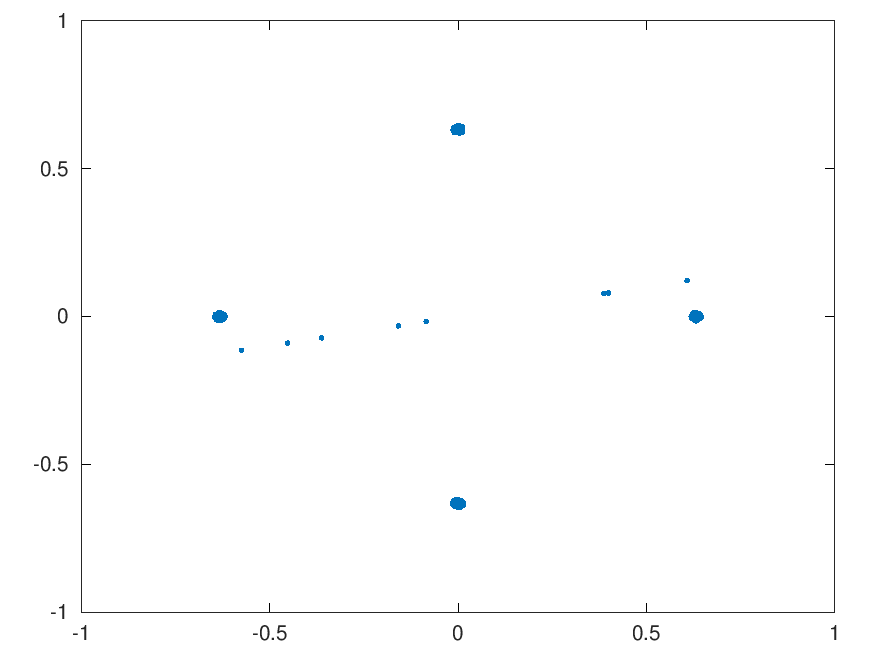
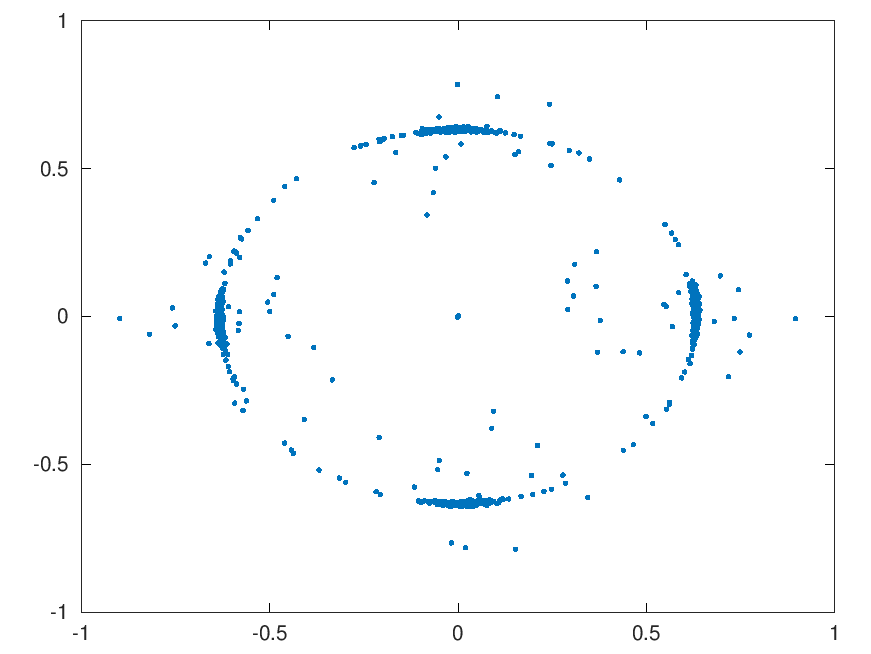
Initial commit

diff --git a/qpsk.c b/qpsk.c
@@ -30,8 +30,16 @@ static FILE *fout;
 
 static complex float tx_filter[NTAPS];
 static complex float rx_filter[NTAPS];
-static complex float input_frame[(FRAME_SIZE * 2)];
-static complex float decimated_frame[256];
+static complex float input_frame[FRAME_SIZE];
+static complex float decimated_frame[128];	// FRAME_SIZE / CYCLES
+
+/*
+ * Costas Loop values
+ */
+static complex float costas_frame[FRAME_SIZE];
+
+static float omega_hat[FRAME_SIZE];
+static float phi_hat[FRAME_SIZE];
 
 // Two phase for full duplex
 
@@ -113,10 +121,8 @@ void rx_frame(int16_t in[], int bits[]) {
 
     float av_i = 0.0f;;
     float av_q = 0.0f;
-    
-    float phi_error_hat;
 
-    int rxbits[2];
+    //int rxbits[2];
     
     /*
      * You need as many histograms as you think
@@ -131,11 +137,8 @@ void rx_frame(int16_t in[], int bits[]) {
      */
     for (int i = 0; i < FRAME_SIZE; i++) {
         fbb_rx_phase *= fbb_rx_rect;
-        
-        complex float val = fbb_rx_phase * ((float) in[i] / 16384.0f);
 
-        input_frame[i] = input_frame[FRAME_SIZE + i];	// Current frame
-        input_frame[FRAME_SIZE + i] = val;		// Future frame
+        input_frame[i] = fbb_rx_phase * ((float) in[i] / 16384.0f);
     }
 
     fbb_rx_phase /= cabsf(fbb_rx_phase); // normalize as magnitude can drift
@@ -206,32 +209,38 @@ void rx_frame(int16_t in[], int bits[]) {
     }
 
     /*
-     * Decimate by 4 to the 2400 symbol rate
+     * Costas Loop over the whole input frame
      */
-    for (int i = 0; i < (FRAME_SIZE / CYCLES); i++) {
-        int extended = (FRAME_SIZE / CYCLES) + i; // compute once
-        
-        decimated_frame[i] = decimated_frame[extended];
-        decimated_frame[extended] = input_frame[(i * CYCLES) + index];
+    for (int i = 0; i < (FRAME_SIZE - 1); i++) {
+        costas_frame[i] = input_frame[i] * cmplxconj(phi_hat[i]);  // carrier sync
 
         /*
          * Compute 4th-Order phase error (remove modulation)
          */
+        float phi_error_hat = cargf(cpowf(costas_frame[i], 4.0f));
+        
+        omega_hat[i+1] = omega_hat[i] + (BETA * phi_error_hat); // loop filter
+        phi_hat[i+1] = phi_hat[i] + (ALPHA * phi_error_hat) + omega_hat[i+1];
+    }
 
-        //phi_error_hat = cargf(cpowf(decimated_frame[extended], 4.0f));
+    /*
+     * Decimate by 4 to the 2400 symbol rate
+     * adjust for the timing error
+     */
+    for (int i = 0; i < (FRAME_SIZE / CYCLES); i++) {
+        decimated_frame[i] = costas_frame[(i * CYCLES) + index];
 
 #ifdef TEST_SCATTER
         fprintf(stderr, "%f %f\n", crealf(decimated_frame[i]), cimagf(decimated_frame[i]));
 #endif
-    }
+
 /*
-    for (int i = 0; i < (FRAME_SIZE / CYCLES); i++) {
         //printf("%d ", find_quadrant(decimated_frame[i]));
 
         qpsk_demod(decimated_frame[i], rxbits);
         printf("%d%d ", rxbits[0], rxbits[1]);
-    }
 */
+    }
 }
 
 /*
@@ -325,7 +334,16 @@ int main(int argc, char** argv) {
     int length;
 
     srand(time(0));
-    
+
+    /*
+     * Initialize Costas loop
+     */
+     for (int i = 0; i < FRAME_SIZE; i++) {
+        costas_frame[i] = 0.0f;    // complex
+        omega_hat[i] = 0.0f;       // float
+        phi_hat[i] = 0.0f;         // float
+    }
+
     /*
      * Create an RRC filter using the
      * Sample Rate, baud, and Alpha
@@ -339,7 +357,7 @@ int main(int argc, char** argv) {
     fout = fopen(TX_FILENAME, "wb");
 
     fbb_tx_phase = cmplx(0.0f);
-    fbb_tx_rect = cmplx(TAU * CENTER / FS);
+    fbb_tx_rect = cmplx(TAU * (CENTER + 5.0f) / FS);    // 10 Hz TX Freq Error
 
     for (int k = 0; k < 100; k++) {
         /*
@@ -362,7 +380,7 @@ int main(int argc, char** argv) {
 
     fclose(fout);
 
-    printf("\n\n\n");
+    //printf("\n\n\n");
 
     /*
      * Now try to process what was transmitted
@@ -370,7 +388,7 @@ int main(int argc, char** argv) {
     fin = fopen(TX_FILENAME, "rb");
 
     fbb_rx_phase = cmplx(0.0f);
-    fbb_rx_rect = cmplx(TAU * -CENTER / FS);
+    fbb_rx_rect = cmplxconj(TAU * CENTER / FS);
 
     while (1) {
         /*

diff --git a/qpsk.h b/qpsk.h
@@ -32,6 +32,9 @@ extern "C"
 #define TAU             (2.0 * M_PI)
 #define ROTATE45        (M_PI / 4.0)
 
+#define ALPHA		0.015f
+#define BETA		(ALPHA * ALPHA)
+
 /*
  * This method is much faster than using cexp()
  * float_value - must be a float
